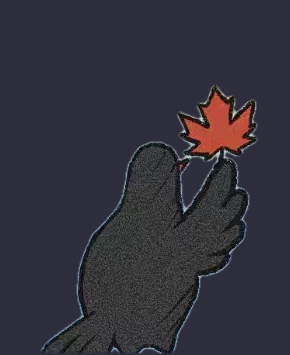
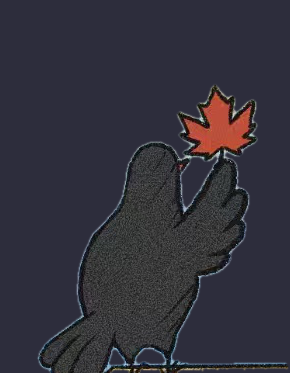
v21: slower bus (6.5s), faster sign flip (5s), sign right side completed, bird feet restored

diff --git a/index.html b/index.html
@@ -47,7 +47,7 @@
   <p>2026 伊坂幸太郎月历 · 隐藏彩蛋</p>
   <button id="arBtn">开始 AR · 对准月历插画</button>
   <button id="vrBtn">进入 VR · 插画动起来</button>
-  <p style="font-size:11px;opacity:.4;margin-top:10px">v20</p>
+  <p style="font-size:11px;opacity:.4;margin-top:10px">v21</p>
 </div>
 
 <div id="container"></div>
@@ -362,7 +362,7 @@ function createArtScene(meta, tex, opts = {}) {
     });
 
     /* 站牌：轻摆 + 周期性整体翻转 */
-    const flipCycle = 9.0;
+    const flipCycle = 5.0;
     const fu = (t % flipCycle) / flipCycle;
     let signRotY = Math.sin(t * 0.6) * 0.08;
     if (fu < 0.22) {
@@ -451,7 +451,7 @@ async function startAR() {
   const anchor = mindarThree.addAnchor(0);
   const anchorRoot = anchor.group || anchor;
 
-  const art = createArtScene(ART_META, ART_TEX, { withSky: false, driveFromX: -1.15, driveDur: 3.6 });
+  const art = createArtScene(ART_META, ART_TEX, { withSky: false, driveFromX: -1.15, driveDur: 5.2 });
   art.group.position.z = 0.01;
   anchorRoot.add(art.group);
 
@@ -603,7 +603,7 @@ async function enterVR(auto = false) {
     fitCamera();
   });
 
-  const art = createArtScene(ART_META, ART_TEX, { withSky: true, driveFromX: -1.35, driveDur: 4.2 });
+  const art = createArtScene(ART_META, ART_TEX, { withSky: true, driveFromX: -1.35, driveDur: 6.5 });
   scene.add(art.group);
   art.startDriveIn(0.9);
 

diff --git a/tools/extract.py b/tools/extract.py
@@ -32,7 +32,7 @@ ink  = img.max(axis=2) < 115
 red  = (R > 120) & ((R - np.maximum(G, B)) > 55)
 fg_global = ink | red | (diff > 60)
 # 横幅卷轴的奶油色：亮度高且不低于蓝色分量（浅蓝天空 B 最大，可区分）
-cream = (R > 195) & (G > 185) & (B > 135) & (B < R + 8)
+cream = (R > 195) & (G > 185) & (B > 148) & (B < R + 8)
 cream[:690, :] = False
 cream[830:, :] = False          # 只允许出现在横幅那一带
 band = np.zeros_like(cream); band[690:830, 900:1330] = True
@@ -78,11 +78,11 @@ def keep_seed_components(mask, seeds, min_area=250):
 CROPS = {
     # name: (x0, y0, x1, y1, seeds 相对裁剪坐标, 是否填洞)
     "bus":   (145, 160, 1225, 830,  [(535, 400), (692, 613), (191, 611)], "ink"),
-    "bird1": (60,   740, 350,  SLAT, [(130, 210)], False),
-    "bird2": (300,  790, 560,  SLAT, [(120, 160)], False),
-    "bird3": (495,  680, 815,  SLAT, [(155, 270), (80, 80)], False),
-    "bird4": (760,  790, 1085, SLAT, [(120, 160), (240, 240)], False),
-    "bird6": (850,  650, 1345, SLAT, [(280, 300), (235, 115)], False),
+    "bird1": (60,   740, 350,  slat_top + 6, [(130, 210)], False),
+    "bird2": (300,  790, 560,  slat_top + 6, [(120, 160)], False),
+    "bird3": (495,  680, 815,  slat_top + 6, [(155, 270), (80, 80)], False),
+    "bird4": (760,  790, 1085, slat_top + 6, [(120, 160), (240, 240)], False),
+    "bird6": (850,  650, 1345, slat_top + 6, [(280, 300), (235, 115)], False),
     "sign":  (1255, 0,   1745, 1280, None, "ink_all"),
     "bench": (55,  slat_top - 6, 1300, 1280, [(600, 60), (200, 40)], True),
 }
@@ -109,6 +109,36 @@ for name, (x0, y0, x1, y1, seeds, mode) in CROPS.items():
                 keep |= comp
     else:
         keep = keep_seed_components(fgc, seeds, min_area=500 if name == "bus" else 250)
+    if name.startswith("bird"):
+        # 补脚：底边以内、避开长椅整条横线（覆盖率高）的墨迹算脚
+        base_lo = max(0, SLAT - y0 - 25)
+        base_hi = max(1, SLAT - y0)
+        cols = np.nonzero(keep[base_lo:base_hi, :].any(axis=0))[0]
+        if len(cols):
+            lo, hi = max(0, cols.min() - 10), min(keep.shape[1], cols.max() + 11)
+            ink_crop = ink[y0:y1, x0:x1]
+            for ry in range(max(0, SLAT - y0 - 2), keep.shape[0]):
+                row_ink = ink_crop[ry, :]
+                if row_ink.mean() > 0.5:
+                    continue          # 长椅横线，跳过
+                seg = row_ink.copy()
+                seg[:lo] = False; seg[hi:] = False
+                keep[ry, :] |= seg
+    if name.startswith("bird"):
+        keep &= ~wood[y0:y1, x0:x1]      # 木色属于长椅，不属于鸟
+        # 底边：从鸟身向下连通生长（保留相连的脚），并断开长椅横线
+        ink_crop2 = ink[y0:y1, x0:x1]
+        cut = max(0, SLAT - y0 - 2)
+        extra = np.zeros_like(keep)
+        for ry in range(cut, keep.shape[0]):
+            row_ink = ink_crop2[ry, :]
+            if row_ink.mean() > 0.5:
+                continue                 # 长椅横线行
+            extra[ry, :] = row_ink
+        seeds = np.zeros_like(keep)
+        seeds[:cut, :] = keep[:cut, :]
+        mask = keep | extra
+        keep = ndimage.binary_propagation(seeds, mask=mask)
     if name == "bird6":
         keep = ndimage.binary_opening(keep, iterations=1)
         busA = np.asarray(Image.open(os.path.join(OUT, "bus.png")).convert("RGBA"))[:, :, 3] > 10
@@ -128,19 +158,59 @@ for name, (x0, y0, x1, y1, seeds, mode) in CROPS.items():
     checker.save(os.path.join(DBG, f"{name}_check.png"))
     Image.fromarray((a * 255).astype(np.uint8)).save(os.path.join(DBG, f"alpha_{name}.png"))
 
-# ── 鸟贴片去重：后处理的鸟扣掉前面鸟已占据的像素 ──
-acc = np.zeros((H, W), np.float32)
-for name in ["bird1", "bird2", "bird3", "bird4", "bird6"]:
+# ── 鸟贴片去重：按列归属（每个横向位置只归水平最近的鸟）──
+CENTERS = {"bird1": 190, "bird2": 420, "bird3": 650, "bird4": 940, "bird6": 1160}
+names_b = list(CENTERS.keys())
+col_arr = np.arange(W)
+owner = np.zeros(W, int)
+best = np.full(W, 1e9)
+for i, nm in enumerate(names_b):
+    d = np.abs(col_arr - CENTERS[nm])
+    m = d < best
+    owner[m] = i; best[m] = d[m]
+for i, name in enumerate(names_b):
     fp = os.path.join(OUT, f"{name}.png")
     im = np.asarray(Image.open(fp).convert("RGBA")).copy()
     x0, y0, x1, y1 = rects[name]
-    a_full = np.zeros((H, W), np.float32)
-    a_full[y0:y1, x0:x1] = im[:, :, 3].astype(np.float32) / 255
-    a_full *= (1.0 - acc)
-    im[:, :, 3] = (np.clip(a_full[y0:y1, x0:x1], 0, 1) * 255).astype(np.uint8)
+    a = im[:, :, 3].astype(np.float32) / 255
+    own_cols = (owner[x0:x1] == i)[None, :]
+    a = a * own_cols
+    im[:, :, 3] = (np.clip(a, 0, 1) * 255).astype(np.uint8)
     Image.fromarray(im, "RGBA").save(fp)
-    acc = np.maximum(acc, a_full)
-    alphas[name] = a_full[y0:y1, x0:x1]
+    alphas[name] = a
+
+# ── 横幅整体归 bird6：横幅带区域从 bird4 移除、并入 bird6 ──
+yy_z, xx_z = np.mgrid[0:H, 0:W]
+zone = (yy_z >= 660) & (yy_z <= 845) & (xx_z >= 845) & (xx_z <= 1345)
+cream2 = (R > 195) & (G > 185) & (B > 148) & (B < R + 8)
+bus_a = np.zeros((H, W), bool)
+_bus = np.asarray(Image.open(os.path.join(OUT, "bus.png")).convert("RGBA"))[:, :, 3] > 10
+bus_a[160:830, 145:1225] = _bus
+bus_a = ndimage.binary_dilation(bus_a, iterations=3)
+# 横幅：从横幅内部播种，在「奶油|墨|红」掩码里泛洪（天空 B<150 不会泄漏）
+banner_mask = (cream2 | ink | red) & zone & ~bus_a
+seeds_b = np.zeros_like(banner_mask)
+for sx, sy in [(1000, 748), (1100, 742), (1160, 756), (930, 752), (1215, 762)]:
+    if 0 <= sy < H and 0 <= sx < W and banner_mask[sy, sx]:
+        seeds_b[sy, sx] = True
+    else:
+        # 种子没踩在掩码上时，就近找一个掩码像素
+        yy0, yy1 = max(0, sy - 8), min(H, sy + 9)
+        xx0, xx1 = max(0, sx - 8), min(W, sx + 9)
+        sub = np.argwhere(banner_mask[yy0:yy1, xx0:xx1])
+        if len(sub):
+            seeds_b[yy0 + sub[0][0], xx0 + sub[0][1]] = True
+bz = ndimage.binary_propagation(seeds_b, mask=banner_mask)
+for nm, add in (("bird4", False), ("bird6", True)):
+    fp = os.path.join(OUT, f"{nm}.png")
+    im = np.asarray(Image.open(fp).convert("RGBA")).copy()
+    x0, y0, x1, y1 = rects[nm]
+    a = im[:, :, 3].astype(np.float32) / 255
+    zc = bz[y0:y1, x0:x1].astype(np.float32)
+    a = np.maximum(a, zc) if add else a * (1 - zc)
+    im[:, :, 3] = (np.clip(a, 0, 1) * 255).astype(np.uint8)
+    Image.fromarray(im, "RGBA").save(fp)
+    alphas[nm] = a
 
 # ── 站牌重建：牌子向右补全（含 N 字）+ 杆子重画到圆头 ──
 def rebuild_sign():
@@ -148,7 +218,7 @@ def rebuild_sign():
     art_path = os.path.join(OUT, "sign.png")
     art = np.asarray(Image.open(art_path).convert("RGBA")).copy()   # 415 x 1280
     AH, AW = art.shape[:2]
-    NEWW = 580
+    NEWW = 660
     TOPPAD = 110
     canvas = np.zeros((AH + TOPPAD, NEWW, 4), np.uint8)
 
@@ -179,7 +249,7 @@ def rebuild_sign():
     # 排除横幅右端残片（左下角区域），避免混入站牌
     yy_a, xx_a = np.mgrid[0:AH, 0:AW]
     am = am & ~((yy_a > 790) & (xx_a < 1500 - sx0))
-    am = am & ~((yy_a > 600) & (yy_a < 700) & (xx_a < 60))   # 左侧碎屑
+    am = am & ~((yy_a > 560) & (yy_a < 800) & (xx_a < 72))   # 左侧碎屑
     region = canvas[TOPPAD:TOPPAD + AH, :AW]
     region[am] = art[am]
 
